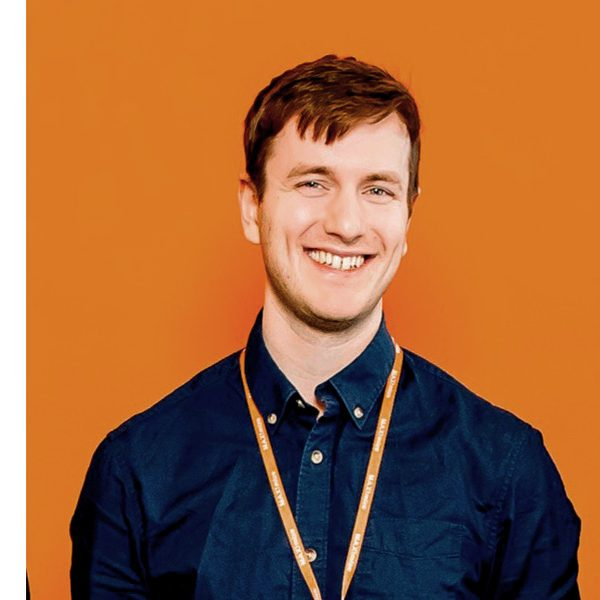
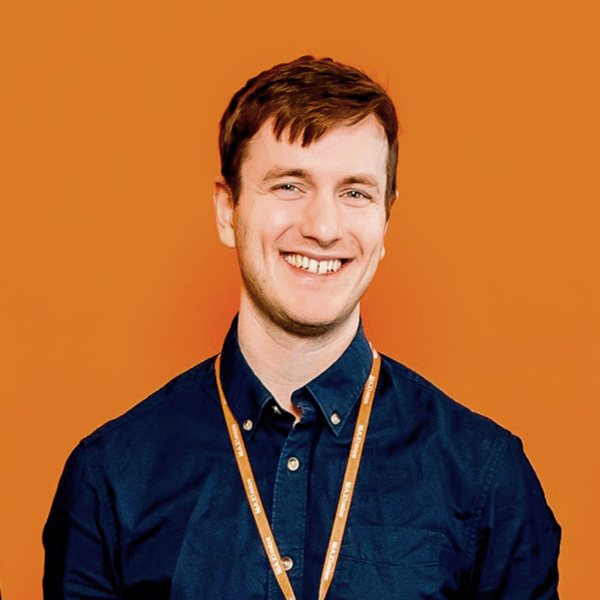
Remove empty placeholders, add FAQ answers, stability wording, MAXimize in footer; content to-do list
Claude-Session: https://claude.ai/code/session_01WAzwZB1M9gBwxz7CrWqJum

Changed region(s): [[0.0, 0.0, 0.99, 1.0]]

diff --git a/src/pages/technology/memchip.html b/src/pages/technology/memchip.html
@@ -21,7 +21,7 @@
   <div class="wrap">
     <div class="section-head reveal"><span class="eyebrow">The principle</span><h2>A real membrane, read electrically.</h2></div>
     <div class="grid3 reveal">
-      <div class="card"><h3>Stable</h3><p>Tethers anchor the bilayer to our membrane surface, so it holds for days instead of minutes.</p></div>
+      <div class="card"><h3>Stable</h3><p>Tethers anchor the bilayer to our membrane surface, so it holds for hours with lipid membranes and for days with polymer-based ones.</p></div>
       <div class="card"><h3>Your lipids</h3><p>The bilayer forms from vesicles of your chosen composition and stays fluid, like a cell membrane.</p></div>
       <div class="card"><h3>Label-free, real time</h3><p>Impedance tracks membrane integrity continuously. No dyes, no fluorescence, no washing steps.</p></div>
     </div>
@@ -85,10 +85,10 @@
   <div class="wrap" style="max-width:820px">
     <div class="section-head"><span class="eyebrow">FAQ</span><h2>Before you request.</h2></div>
     <div class="faq">
-      <details><summary>Which lipids can I use?</summary><p>Your choice of composition, as extruded vesicles at about 1–6 mM lipid (about 0.8–5 mg/mL). {{tbc:any limits?}}</p></details>
-      <details><summary>How long until first data?</summary><p>Under half an hour from a dry chip to a stable membrane: pre-treatment and baseline, then about 5–10 minutes of bilayer formation per chip.</p></details>
-      <details><summary>Is the chip single-use?</summary><p>{{tbc:answer}}</p></details>
-      <details><summary>Do I need electrochemistry experience?</summary><p>{{tbc:answer: quick guide and help with analysis?}}</p></details>
+      <details><summary>Which lipids can I use?</summary><p>Anything that forms vesicles works on MemChip. For membrane formation, use about 1–6 mM lipid.</p></details>
+      <details><summary>How long until first data?</summary><p>Under half an hour from a dry chip to a stable membrane: a 10-minute ethanol soak and rinse, then about 5–10 minutes of bilayer formation per chip.</p></details>
+      <details><summary>Is the chip single-use?</summary><p>It can be reused a few times.</p></details>
+      <details><summary>Do I need electrochemistry experience?</summary><p>No. The quick guide, the MemChip analyzer and our <a class="textlink" href="https://youtube.com/playlist?list=PLG5NRkYn0Ao0&amp;si=Z4FlYoVP_gwTMRej" target="_blank" rel="noopener">YouTube instructional videos</a> walk you through every step.</p></details>
       <details><summary>I don't have a potentiostat.</summary><p>MemChip runs on EIS-capable potentiostats from our validated list. Contact us and we'll help you find a setup.</p></details>
     </div>
   </div>

diff --git a/src/pages/technology/slides.html b/src/pages/technology/slides.html
@@ -8,7 +8,7 @@
       <p class="lead">The same surface as MemChip, on glass.</p>
       <div class="actions"><a class="btn btn-primary" href="{{/contact/#request}}">Request trial samples</a></div>
     </div>
-    <div>{{ph:ASSET|Microscopy image of a membrane on the slide}}</div>
+    <div>{{vid:frap|frap-poster}}</div>
   </div>
 </section>
 
@@ -16,13 +16,6 @@
   <div class="wrap">
     <div class="section-head reveal"><span class="eyebrow">One membrane, two readouts</span><h2>What you see on the slide matches what you measure on the chip.</h2></div>
     <div class="reveal">{{svg:chip-slide}}</div>
-  </div>
-</section>
-
-<section>
-  <div class="wrap split">
-    <div class="reveal">{{vid:frap|frap-poster}}</div>
-    <div class="reveal">{{ph:ASSET|Second image: labelled LNPs or peptides on the slide}}</div>
   </div>
 </section>
 
@@ -41,10 +34,8 @@
   <div class="wrap" style="max-width:760px">
     <details class="faq reveal"><summary>Specifications</summary>
       <table class="specs" style="margin-top:12px">
-        <tr><th>Format</th><td>{{tbc:DATA}}</td></tr>
-        <tr><th>Glass thickness</th><td>{{tbc:DATA}}</td></tr>
-        <tr><th>Methods</th><td>Fluorescence microscopy, FRAP {{tbc:TIRF?}}</td></tr>
-        <tr><th>Storage</th><td>{{tbc:DATA}}</td></tr>
+        <tr><th>Surface</th><td>Same membrane surface as MemChip</td></tr>
+        <tr><th>Methods</th><td>Fluorescence microscopy, FRAP</td></tr>
       </table>
     </details>
   </div>

diff --git a/src/pages/index.html b/src/pages/index.html
@@ -64,7 +64,7 @@
   <div class="wrap">
     <div class="stats three reveal">
       <div class="stat"><div class="v"><b>&lt;30</b> min</div><div class="k">From chip to stable membrane, with standard lab equipment</div></div>
-      <div class="stat"><div class="v"><b>6+</b> days</div><div class="k">Membrane stability shown on chip</div></div>
+      <div class="stat"><div class="v"><b>Days</b></div><div class="k">Membrane stability on chip: hours with lipids, days with polymer-based membranes</div></div>
       <div class="stat"><div class="v"><b>Label-free</b></div><div class="k">Impedance readout on EIS-capable potentiostats</div></div>
     </div>
   </div>
@@ -76,10 +76,8 @@
       <span class="eyebrow">Data</span>
       <h2>Our experimental results</h2>
     </div>
-    <div class="tiles">
+    <div class="tiles" style="grid-template-columns:minmax(0,680px);justify-content:center">
       <div class="reveal"><figure class="fig" style="margin:0"><img src="{{@assets/img/data-stability-polymer.png}}" alt="Impedance at 100 Hz stays about ten times above baseline for more than 150 hours" loading="lazy"><figcaption><b>Long-term stability.</b> Impedance at 100 Hz of a polymer-based membrane, well above the bare-electrode baseline for over 6 days.</figcaption></figure></div>
-      <div class="reveal">{{ph:DATA|LNP formulation comparison}}</div>
-      <div class="reveal">{{ph:DATA|AMP disruption trace}}</div>
     </div>
   </div>
 </section>

diff --git a/src/pages/applications/lipid-nanoparticles.html b/src/pages/applications/lipid-nanoparticles.html
@@ -27,13 +27,12 @@
   <div class="wrap">
     <div class="section-head reveal"><span class="eyebrow">The assay</span><h2>Endosomal membrane mimic, pH drop, fusion as signal.</h2></div>
     <div class="reveal">{{svg:assay-lnp}}</div>
-    <p class="caption">The membrane mimic composition is your choice. {{tbc:composition we suggest as the endosomal mimic}}</p>
+    <p class="caption">The membrane mimic composition is your choice.</p>
   </div>
 </section>
 
 <section class="bg-video">
-  <div class="wrap split wide-left">
-    <div class="reveal">{{ph:DATA|Formulation comparison: admittance over time, formulations A, B, C}}</div>
+  <div class="wrap" style="max-width:820px">
     <div class="reveal">
       <span class="eyebrow">What you can do</span>
       <ul class="bullets">
@@ -46,8 +45,7 @@
 </section>
 
 <section>
-  <div class="wrap split">
-    <div class="reveal">{{ph:ASSET|Microscopy: labelled LNPs on the surface-matched slide}}</div>
+  <div class="wrap" style="max-width:820px">
     <div class="reveal">
       <span class="eyebrow">On the slide</span>
       <h2 style="margin-top:12px">See it, too.</h2>

diff --git a/src/pages/applications/antimicrobial-peptides.html b/src/pages/applications/antimicrobial-peptides.html
@@ -32,8 +32,7 @@
 </section>
 
 <section class="bg-video">
-  <div class="wrap split wide-left">
-    <div class="reveal">{{ph:DATA|Peptide A vs B on a bacterial membrane mimic, with a mammalian membrane mimic as control}}</div>
+  <div class="wrap" style="max-width:820px">
     <div class="reveal">
       <span class="eyebrow">What you can do</span>
       <ul class="bullets">
@@ -46,8 +45,7 @@
 </section>
 
 <section>
-  <div class="wrap split">
-    <div class="reveal">{{ph:ASSET|Microscopy: labelled peptide on the surface-matched slide}}</div>
+  <div class="wrap" style="max-width:820px">
     <div class="reveal">
       <span class="eyebrow">On the slide</span>
       <h2 style="margin-top:12px">See where it binds.</h2>

diff --git a/src/partials/footer.html b/src/partials/footer.html
@@ -39,7 +39,7 @@
       </div>
     </div>
     <div class="footer-legal">
-      <span>DynaPore is a Max Planck spin-off project in its early-access phase, funded by the EXIST Research Transfer programme. <span class="tbc">CONFIRM wording</span></span>
+      <span>DynaPore is a Max Planck spin-off project in its early-access phase, funded by the EXIST Research Transfer programme and supported by MAXimize.</span>
       <nav><span>© 2026 DynaPore</span><a href="{{/imprint/}}">Impressum</a><a href="{{/privacy/}}">Datenschutz</a></nav>
     </div>
   </div>

diff --git a/src/pages/applications/membrane-sensors.html b/src/pages/applications/membrane-sensors.html
@@ -46,9 +46,9 @@
 </section>
 
 <section>
-  <div class="wrap split wide-left">
-    <div class="reveal">{{ph:DATA|Channel or pore insertion trace, plus a long stability trace}}</div>
+  <div class="wrap" style="max-width:480px">
     <div class="reveal">{{vid:frap|frap-poster}}</div>
+    <p class="caption">FRAP on the surface-matched slide: lipids stay mobile in the tethered membrane.</p>
   </div>
 </section>
 

diff --git a/docs/content-todo.md b/docs/content-todo.md
@@ -1,0 +1,26 @@
+# Content still to come
+
+Removed from the site until available (re-add where noted).
+
+## Data
+- [ ] Detergent disruption trace: home "Our experimental results" + AMP page "What you can do" (left column, was split wide-left)
+- [ ] LNP formulation comparison (pending permission to use): home results + LNP page
+- [ ] AMP peptide comparison (bacterial vs mammalian membrane mimic): AMP page
+- [ ] Channel/pore insertion trace: Membrane sensors page
+- [ ] Higher-res long-term stability plot (polymer): home results
+
+## Images
+- [ ] Microscopy: labelled LNPs on the slide (LNP page, "On the slide")
+- [ ] Microscopy: labelled peptide on the slide (AMP page, "On the slide")
+- [ ] Microscopy of a membrane on the slide (Slides page hero, currently FRAP clip)
+- [ ] Second slide image (LNPs or peptides)
+
+## Facts
+- [ ] Suggested endosomal mimic lipid composition (LNP page caption)
+- [ ] Slide specs: format, glass thickness, storage, TIRF compatibility
+- [ ] Khan: team card (name, role, photo) when ready
+- [ ] LinkedIn links for Henrik Brandl and Anastasia Götz
+
+## Before launch
+- [ ] Impressum + Datenschutz review (asking Max Planck Innovation; incl. who is responsible pre-GmbH)
+- [ ] Domain switch at Wix (A/CNAME to Netlify, keep MX), then test all three forms on dynaporetech.com
